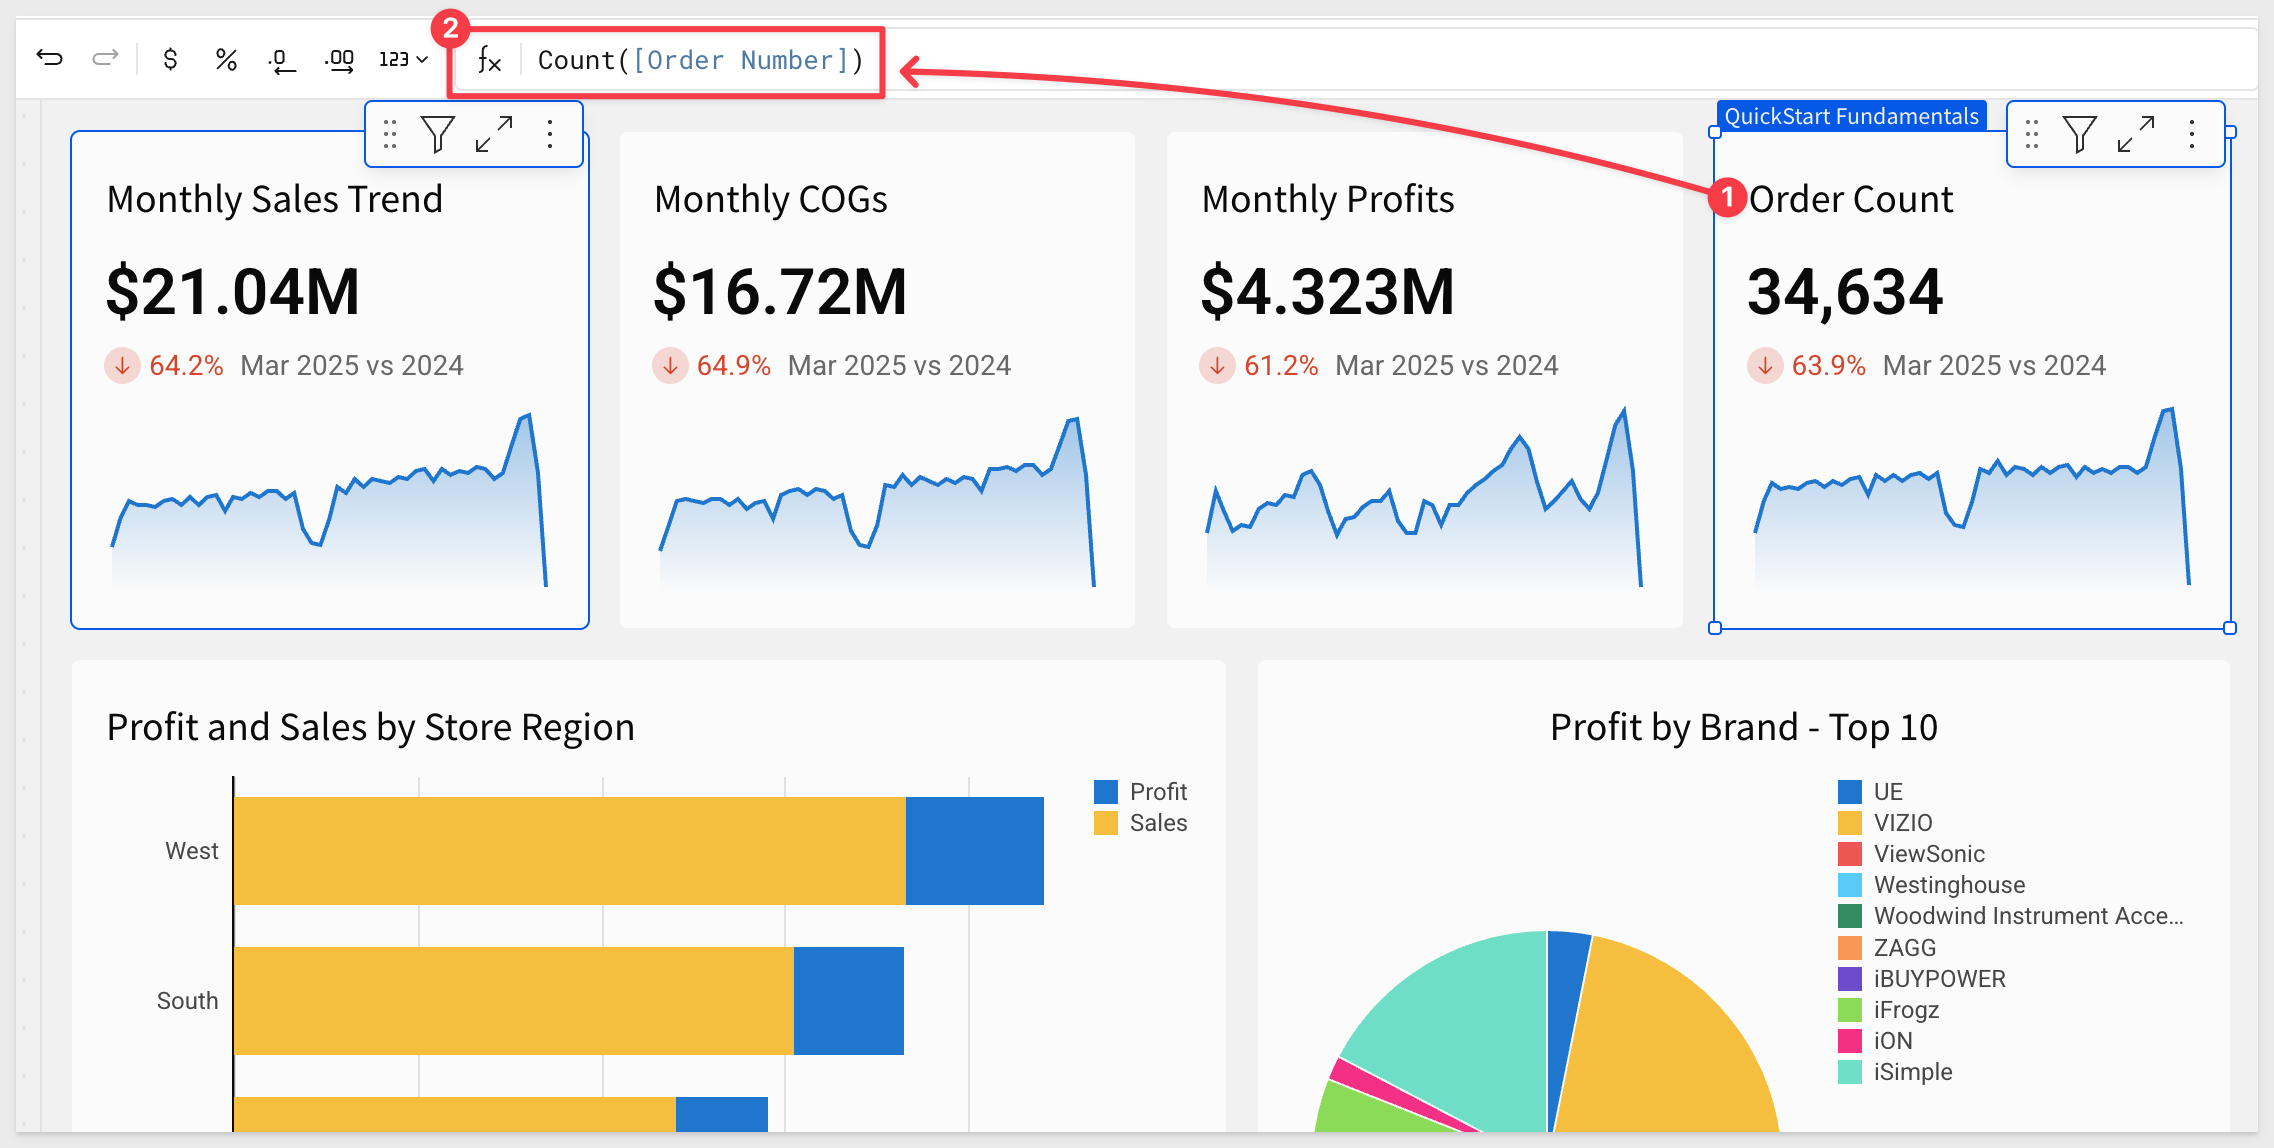
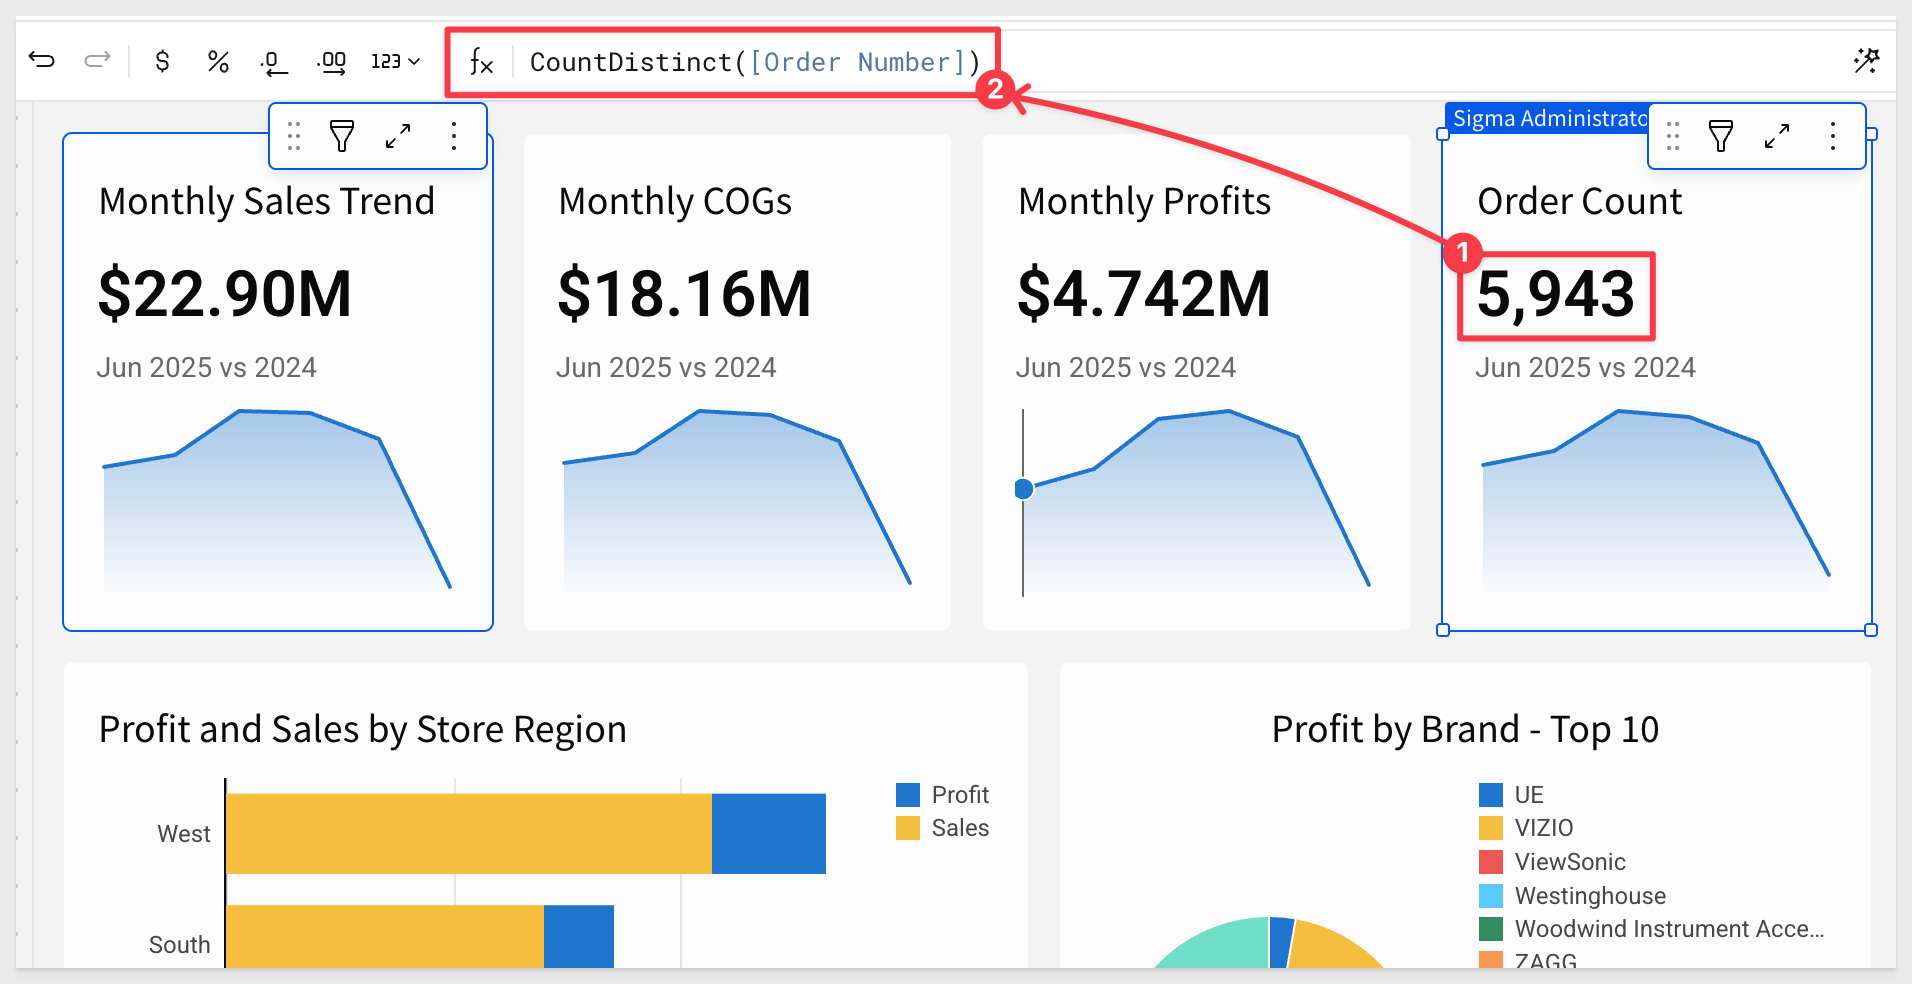
june_13_2025_patches

diff --git a/site/sigmaguides/src/embedding_10_version_tagging_v3/embedding_10_version_tagging_v3.md b/site/sigmaguides/src/embedding_10_version_tagging_v3/embedding_10_version_tagging_v3.md
@@ -182,7 +182,7 @@ For `Warehouse` use `COMPUTE_WH`.
 Click `Save`, and Sigma will validate the connection. 
 
 <aside class="positive">
-<strong>IMPORTANT:</strong><br> At the time of this QuickStart Snowflake announce that they will require key pair authentication for service users starting in November 2025. This will be a mandatory requirement, and single-factor password authentication will no longer be supported. This change is part of Snowflake's broader initiative to enhance security and enforce multi-factor authentication (MFA) for all users. 
+<strong>IMPORTANT:</strong><br> At the time of this QuickStart Snowflake announced that they will require key pair authentication for service users starting in November 2025. This will be a mandatory requirement, and single-factor password authentication will no longer be supported. This change is part of Snowflake's broader initiative to enhance security and enforce multi-factor authentication (MFA) for all users. 
 </aside>
 
 To learn how to set up key-pair authentication in Sigma, see [Snowflake Key-pair Authorization](https://quickstarts.sigmacomputing.com/guide/security_snowflake_keypair_rotation/index.html?index=..%2F..index#0)

diff --git a/site/sigmaguides/src/Fundamentals 5: Charts - v3/Fundamentals 5: Charts.md b/site/sigmaguides/src/Fundamentals 5: Charts - v3/Fundamentals 5: Charts.md
@@ -244,7 +244,7 @@ One way to do this is simply use the `Monthly Sales Trend` KPI menu and select `
 
 `COGS` and `Profit` are done by swapping the `VALUE` column from `Monthly Sales Trend` to `COGS` and `Profit` columns respectively.
 
-`Order Count` is the same as the others but the formula is not `SUM` but rather `COUNT`.
+`Order Count` is the same as the others but the formula is not `SUM` but rather `CountDistinct`.
 
 Select all four KPI at once and drag them about the charts, resizing to suit.
 
